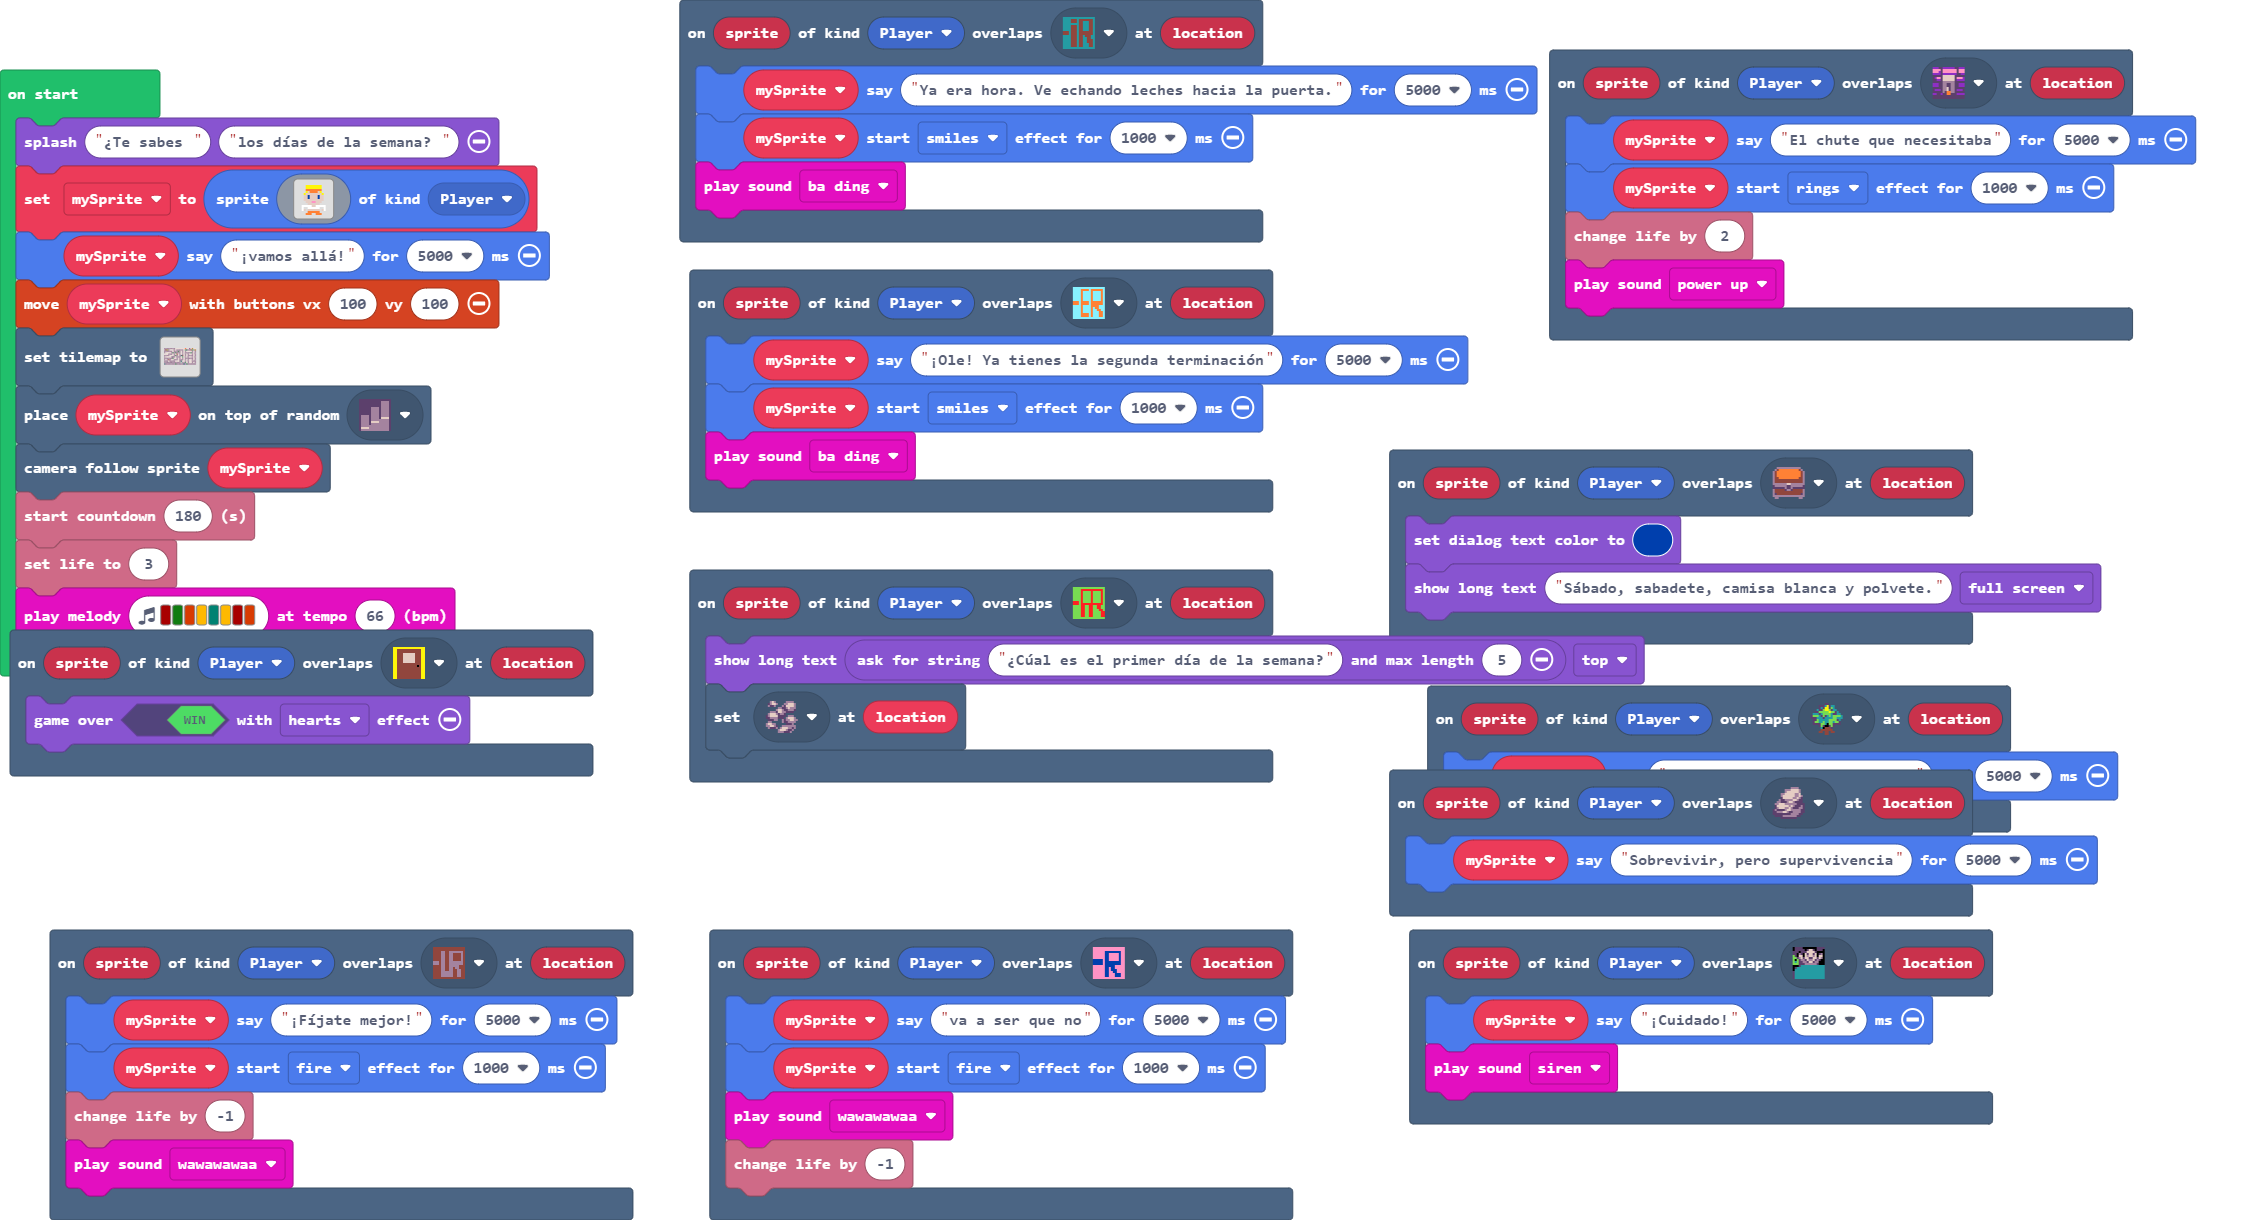
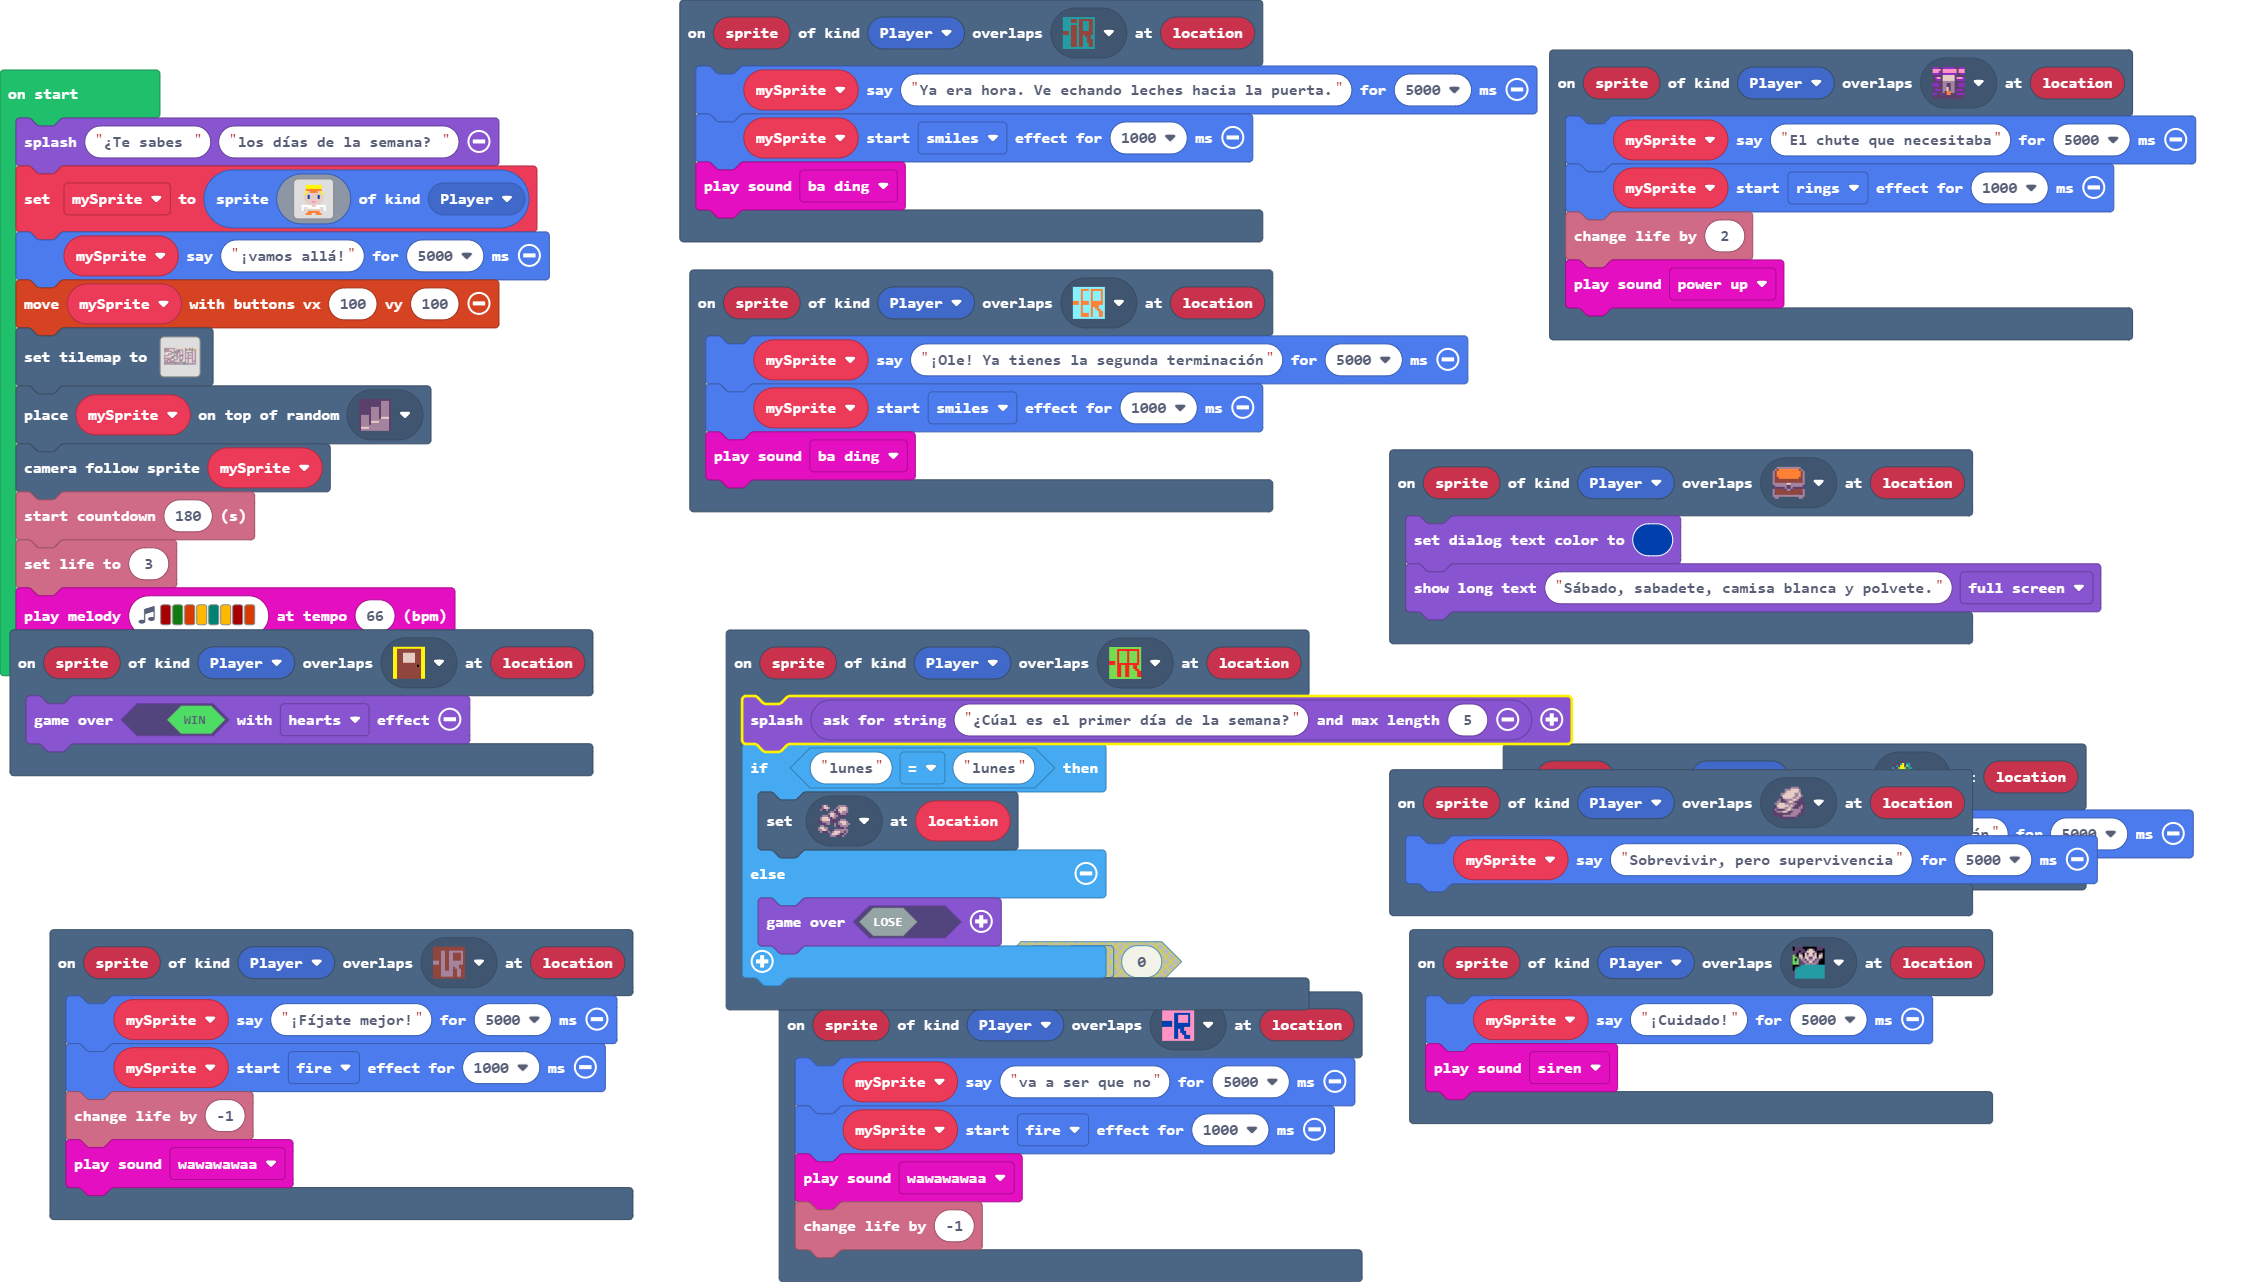
Update main.blocks, main.ts

diff --git a/main.ts b/main.ts
@@ -5,8 +5,12 @@ scene.onOverlapTile(SpriteKind.Player, sprites.castle.rock1, function (sprite, l
     mySprite.say("Sobrevivir, pero supervivencia", 5000)
 })
 scene.onOverlapTile(SpriteKind.Player, myTiles.tile4, function (sprite, location) {
-    game.showLongText(game.askForString("¿Cúal es el primer día de la semana?", 5), DialogLayout.Top)
-    tiles.setTileAt(location, sprites.castle.rock2)
+    game.splash(game.askForString("¿Cúal es el primer día de la semana?", 5))
+    if ("lunes" == "lunes") {
+        tiles.setTileAt(location, sprites.castle.rock2)
+    } else {
+        game.over(false)
+    }
 })
 scene.onOverlapTile(SpriteKind.Player, myTiles.tile8, function (sprite, location) {
     mySprite.say("¡Fíjate mejor!", 5000)
